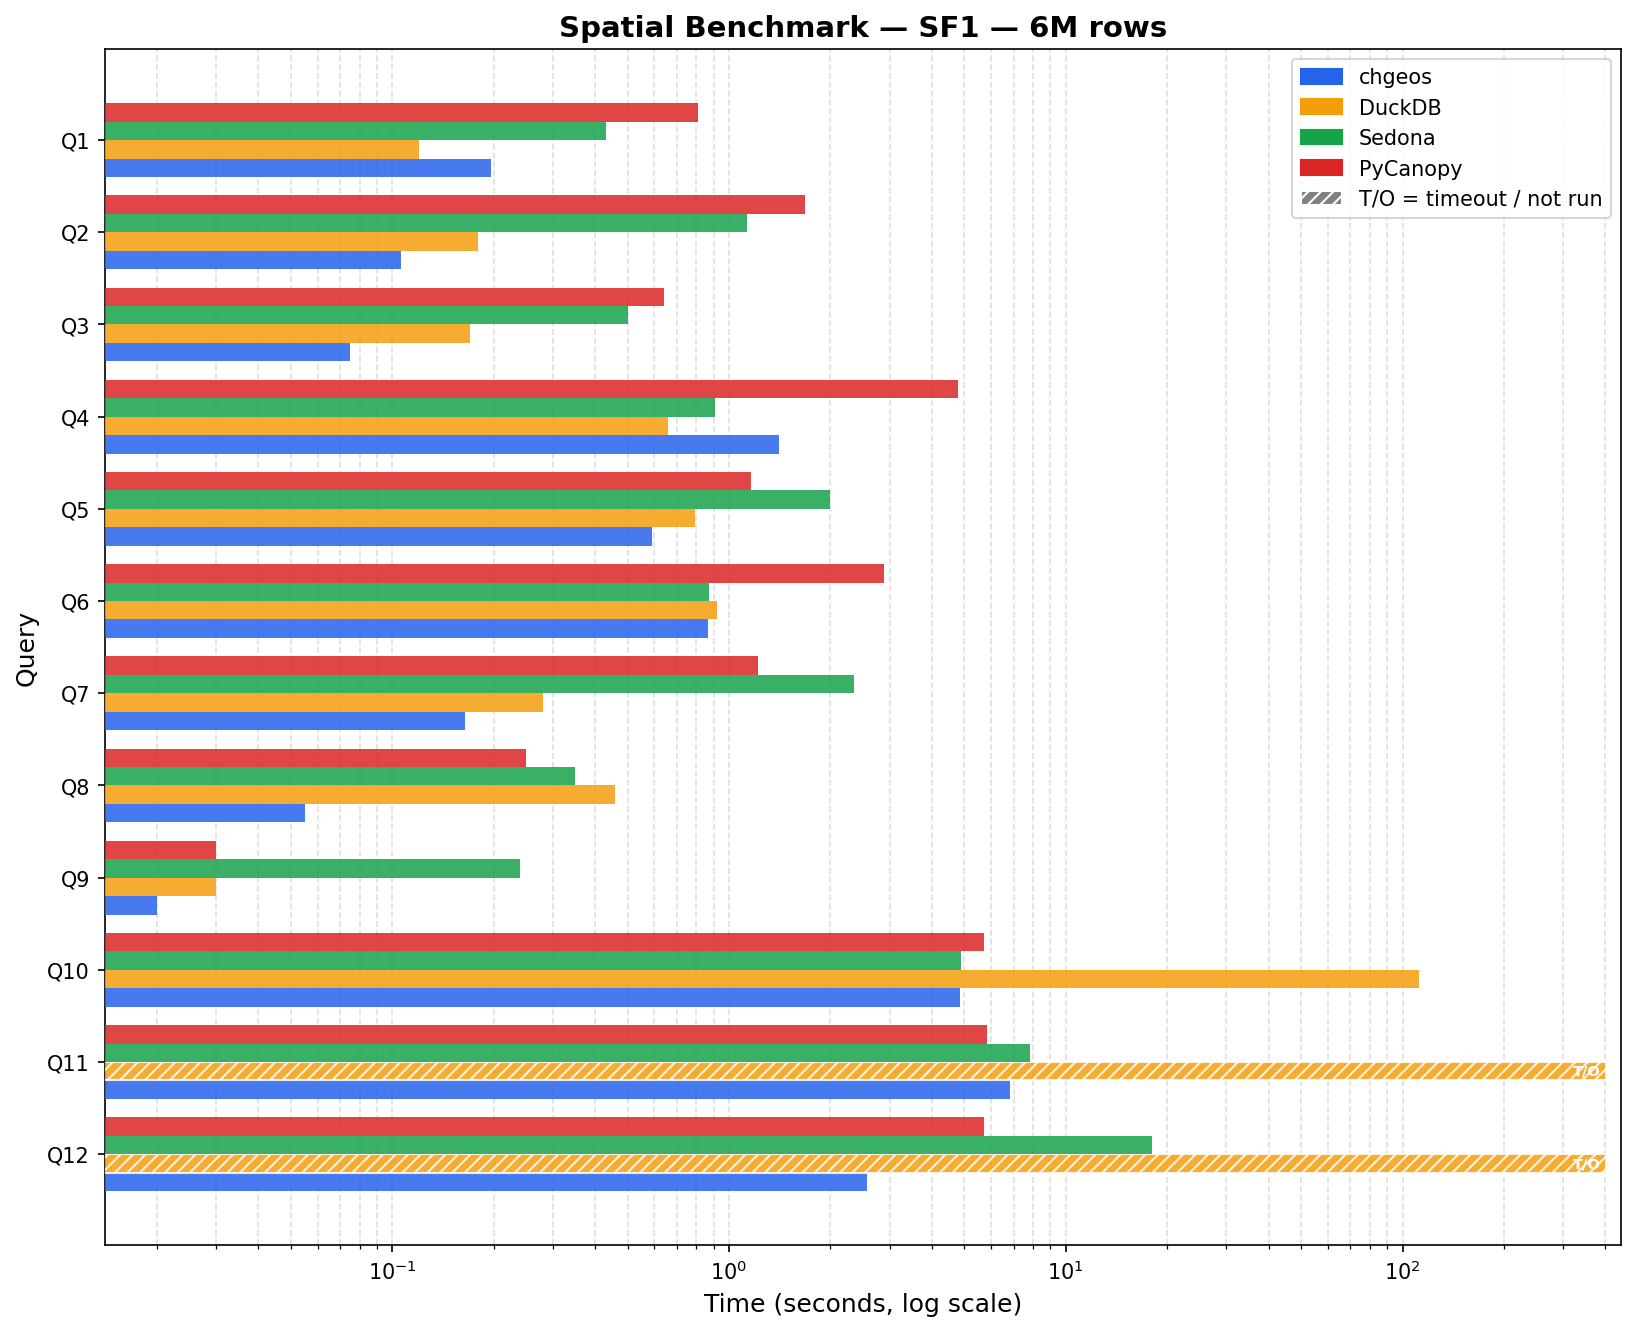
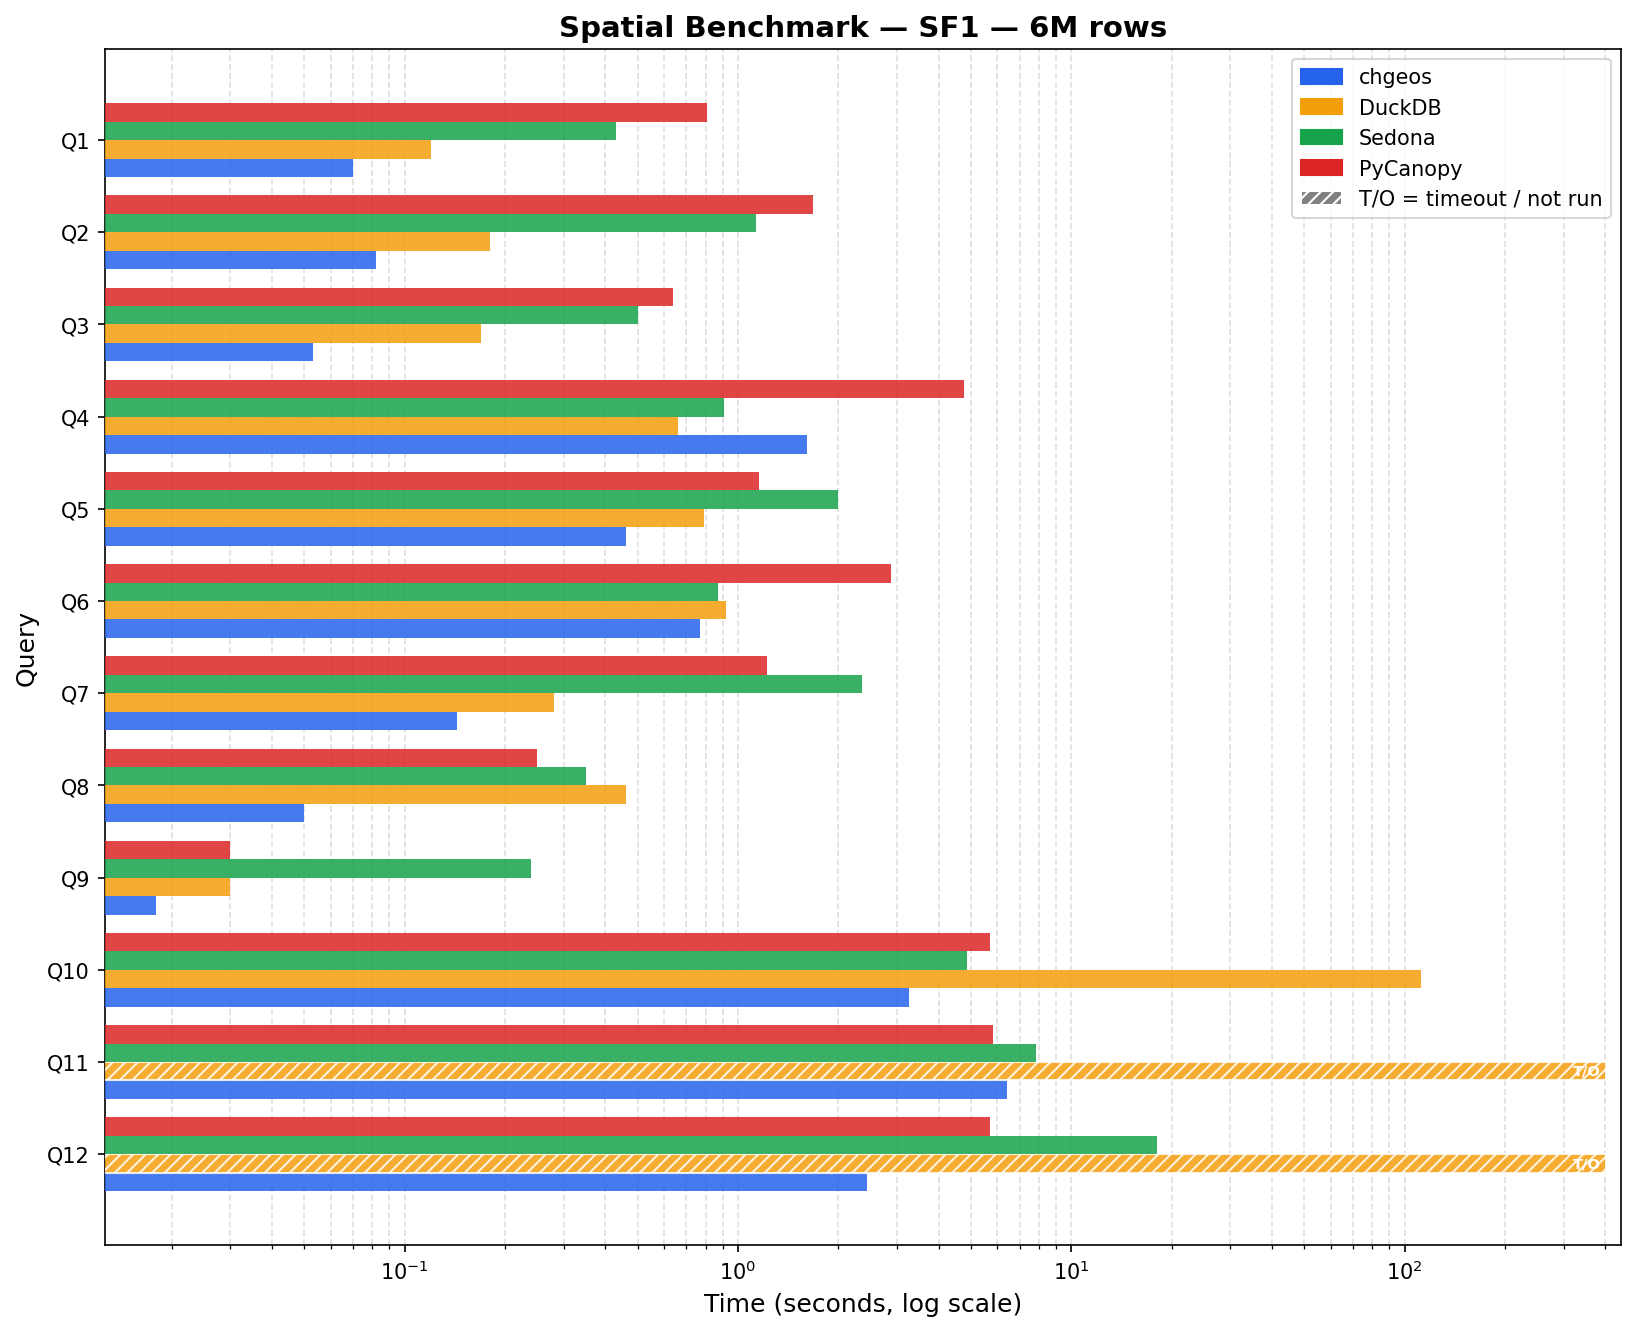
Refresh benchmarks: spatial join wins on Q10 and Q11

diff --git a/BENCHMARK.md b/BENCHMARK.md
@@ -6,7 +6,7 @@ Apache Sedona (SedonaDB) and PyCanopy on the spatial benchmark suite.
 **Hardware:** AMD Ryzen 9 5900X, 128 GB RAM  
 **Dataset:** synthetic taxi trip data from https://github.com/apache/sedona-spatialbench — SF1 = 6M trips, SF10 = 60M trips  
 **Timeout:** 120 s (all engines)  
-**chgeos version:** 2026-10-04 (chgeos `a81da88`, CH `33ced655096`)  
+**chgeos version:** 2026-10-04 (CH `95fbe4909e6`)  
 **DuckDB version:** 1.5.6 (re-measured 2026-10-04)  
 **Sedona version:** 0.3.0  
 **PyCanopy:** measured 2026-07-29  
@@ -19,25 +19,24 @@ Apache Sedona (SedonaDB) and PyCanopy on the spatial benchmark suite.
 
 | Query | Description                        | chgeos   | DuckDB   | Sedona  | PyCanopy | Winner   |
 |-------|------------------------------------|----------|----------|---------|----------|----------|
-| Q1    | Point-in-radius filter             | 0.20 s   | 0.12 s   | 0.43 s  | 0.81 s   | DuckDB   |
-| Q2    | Count trips in county polygon      | 0.11 s   | 0.18 s   | 1.13 s  | 1.68 s   | chgeos   |
-| Q3    | Monthly stats in bbox+buffer       | 0.08 s   | 0.17 s   | 0.50 s  | 0.64 s   | chgeos   |
-| Q4    | Zone distribution (top-1000 tips)  | 1.41 s   | 0.66 s   | 0.91 s  | 4.78 s   | DuckDB   |
-| Q5    | Convex hull area per customer/month| 0.59 s   | 0.79 s   | 2.00 s  | 1.16 s   | chgeos   |
-| Q6    | Zone stats for bbox-intersect zones| 0.87 s   | 0.92 s   | 0.87 s  | 2.88 s   | Tie      |
-| Q7    | Detour ratio (all trips)           | 0.17 s   | 0.28 s   | 2.35 s  | 1.22 s   | chgeos   |
-| Q8    | Nearby pickups per building        | 0.06 s   | 0.46 s   | 0.35 s  | 0.25 s   | chgeos   |
+| Q1    | Point-in-radius filter             | 0.07 s   | 0.12 s   | 0.43 s  | 0.81 s   | chgeos   |
+| Q2    | Count trips in county polygon      | 0.08 s   | 0.18 s   | 1.13 s  | 1.68 s   | chgeos   |
+| Q3    | Monthly stats in bbox+buffer       | 0.05 s   | 0.17 s   | 0.50 s  | 0.64 s   | chgeos   |
+| Q4    | Zone distribution (top-1000 tips)  | 1.61 s   | 0.66 s   | 0.91 s  | 4.78 s   | DuckDB   |
+| Q5    | Convex hull area per customer/month| 0.46 s   | 0.79 s   | 2.00 s  | 1.16 s   | chgeos   |
+| Q6    | Zone stats for bbox-intersect zones| 0.77 s   | 0.92 s   | 0.87 s  | 2.88 s   | chgeos   |
+| Q7    | Detour ratio (all trips)           | 0.14 s   | 0.28 s   | 2.35 s  | 1.22 s   | chgeos   |
+| Q8    | Nearby pickups per building        | 0.05 s   | 0.46 s   | 0.35 s  | 0.25 s   | chgeos   |
 | Q9    | Building conflation via IoU        | 0.02 s   | 0.03 s   | 0.24 s  | 0.03 s   | chgeos   |
-| Q10   | Zone avg duration/distance         | 4.86 s   | 111.59 s | 4.87 s  | 5.70 s   | Tie      |
-| Q11   | Cross-zone trip count              | 6.85 s   | TIMEOUT  | 7.82 s  | 5.84 s   | PyCanopy |
-| Q12   | 5 nearest buildings per trip (kNN) | 2.58 s   | TIMEOUT  | 18.07 s | 5.71 s   | chgeos   |
+| Q10   | Zone avg duration/distance         | 3.27 s   | 111.59 s | 4.87 s  | 5.70 s   | chgeos   |
+| Q11   | Cross-zone trip count              | 6.41 s   | TIMEOUT  | 7.82 s  | 5.84 s   | PyCanopy |
+| Q12   | 5 nearest buildings per trip (kNN) | 2.44 s   | TIMEOUT  | 18.07 s | 5.71 s   | chgeos   |
 
-**SF1 wins — chgeos: 7, DuckDB: 2, Sedona: 0, PyCanopy: 1, Ties: 2**
+**SF1 wins — chgeos: 10, DuckDB: 1, Sedona: 0, PyCanopy: 1, Ties: 0**
 
-The 2026-10-04 SF1 chgeos averages for Q1 and Q4 include a cold first run
-(Q1 min/avg/max 0.05/0.20/0.77 s, Q4 0.76/1.41/2.49 s): they were the first queries
-to touch `trip.parquet` and `zone.parquet` after the SF10 suite. Warm, chgeos takes
-Q1 (0.05 s) but still loses Q4 (0.76 s fastest run vs DuckDB's 0.66 s average).
+The SF1 chgeos Q4 average includes a cold first run (min/avg/max 0.71/1.61/2.24 s): it is the
+first query to read `zone.parquet` after the trip-only queries. Warm, chgeos is at ~0.7 s, close
+to DuckDB's 0.66 s, but still not ahead.
 
 **The SF1 tally understates DuckDB, and the cause is our Parquet files.** `sf1/trip.parquet`
 holds 6M rows in only 4 row groups. DuckDB caps a scan pipeline's thread count at the number
@@ -63,27 +62,37 @@ explained by this — see the Q7 note below.
 | Query | Description                        | chgeos    | DuckDB   | Sedona   | PyCanopy | Winner   |
 |-------|------------------------------------|-----------|----------|----------|----------|----------|
 | Q1    | Point-in-radius filter             | 0.31 s    | 0.33 s   | 0.94 s   | 18.93 s  | chgeos   |
-| Q2    | Count trips in county polygon      | 0.37 s    | 0.48 s   | 1.64 s   | 12.81 s  | chgeos   |
+| Q2    | Count trips in county polygon      | 0.38 s    | 0.48 s   | 1.64 s   | 12.81 s  | chgeos   |
 | Q3    | Monthly stats in bbox+buffer       | 0.33 s    | 0.45 s   | 1.43 s   | 14.59 s  | chgeos   |
-| Q4    | Zone distribution (top-1000 tips)  | 1.17 s    | 1.08 s   | 1.86 s   | 19.80 s  | DuckDB   |
-| Q5    | Convex hull area per customer/month| 5.50 s    | 7.36 s   | 42.43 s  | 21.93 s  | chgeos   |
-| Q6    | Zone stats for bbox-intersect zones| 1.57 s    | 1.59 s   | 2.86 s   | 7.74 s   | Tie      |
+| Q4    | Zone distribution (top-1000 tips)  | 1.14 s    | 1.08 s   | 1.86 s   | 19.80 s  | DuckDB   |
+| Q5    | Convex hull area per customer/month| 5.24 s    | 7.36 s   | 42.43 s  | 21.93 s  | chgeos   |
+| Q6    | Zone stats for bbox-intersect zones| 1.59 s    | 1.59 s   | 2.86 s   | 7.74 s   | Tie      |
 | Q7    | Detour ratio (all trips)           | 0.96 s    | 0.84 s   | 42.28 s  | 14.39 s  | DuckDB   |
-| Q8    | Nearby pickups per building        | 0.51 s    | 1.53 s   | 2.02 s   | 2.69 s   | chgeos   |
+| Q8    | Nearby pickups per building        | 0.50 s    | 1.53 s   | 2.02 s   | 2.69 s   | chgeos   |
 | Q9    | Building conflation via IoU        | 0.04 s    | 0.13 s   | 0.37 s   | 0.06 s   | chgeos   |
-| Q10   | Zone avg duration/distance         | 30.00 s   | TIMEOUT  | 17.02 s  | 27.05 s  | Sedona   |
-| Q11   | Cross-zone trip count              | 45.59 s   | TIMEOUT  | TIMEOUT  | 42.97 s  | PyCanopy |
-| Q12   | 5 nearest buildings per trip (kNN) | 33.28 s   | TIMEOUT  | TIMEOUT  | 98.60 s  | chgeos   |
+| Q10   | Zone avg duration/distance         | 14.05 s   | TIMEOUT  | 17.02 s  | 27.05 s  | chgeos   |
+| Q11   | Cross-zone trip count              | 26.87 s   | TIMEOUT  | TIMEOUT  | 42.97 s  | chgeos   |
+| Q12   | 5 nearest buildings per trip (kNN) | 31.67 s   | TIMEOUT  | TIMEOUT  | 98.60 s  | chgeos   |
 
-**SF10 wins — chgeos: 7, DuckDB: 2, Sedona: 1, PyCanopy: 1, Ties: 1**
+**SF10 wins — chgeos: 9, DuckDB: 2, Sedona: 0, PyCanopy: 0, Ties: 1**
 
-chgeos and DuckDB SF10 were re-measured back to back on 2026-10-04 on the upstream
-split files (chgeos COLUMNAR_V1 wire, 5 runs, averages). The machine was not idle:
-an unrelated process held one core and 23 GB throughout, and load average was
-20–35 during the DuckDB runs, so treat sub-2-second rows as ±10%. DuckDB Q11/Q12 were
-not re-run (the run was stopped after Q10 timed out; both timed out in every earlier
-measurement). Sedona (2026-05-06) and PyCanopy (2026-07-29) were measured on the older
-single-file layout and have not been re-run.
+chgeos SF10 was re-measured on 2026-10-04 at CH `95fbe4909e6` (COLUMNAR_V1 wire,
+5 runs, averages, load average ~19 from unrelated processes, so treat sub-2-second rows as
+±10%). DuckDB SF10 is from earlier the same day on the same split files; DuckDB Q11/Q12 were
+not re-run (both timed out in every earlier measurement). Sedona (2026-05-06) and PyCanopy
+(2026-07-29) were measured on the older single-file layout and have not been re-run.
+
+Q10 and Q11 moved from losses to wins (Q10 30.0 → 14.0 s, Q11 45.6 → 26.9 s), all from
+host-side work in `SpatialRTreeJoin`, not WASM:
+- predicate evaluation groups candidates by left-row runs, resolves column pointers once per
+  probe block and copies only the columns the predicate reads (`77700fc9f0a`, `95fbe4909e6`);
+  the large-row path for zones with millions of candidate trips was still looking every column
+  up by name per candidate, which was ~31% of Q10's straggler tail;
+- the per-core R-tree sub-trees are now spatially disjoint (kd bisection on box centres) for
+  build sides up to 10M rows (`08e9f5beba7`), so a probe only descends the trees it can touch.
+  Q11's second join (31M rows probing the zone tree) is where this pays: CPU −24%. Above 10M
+  rows (the 60M-trip build of Q10/Q11's first join) the same partitioning lost parallelism and
+  is not used.
 
 What moved since 2026-10-03: a host-side bounding-box prefilter answers bbox-disjoint
 rows of constant-argument spatial predicates without entering WASM (Q1 −29%, Q3 −30%,
@@ -174,15 +183,14 @@ predicate, cutting candidate pairs dramatically. At SF1 chgeos, DuckDB and PyCan
 land at 0.03 s, which is below the resolution of these measurements — scored as a tie.
 At SF10 chgeos beats DuckDB and Sedona but PyCanopy is faster (0.06 s vs 0.10 s).
 
-**Q10 at SF10:** Sedona wins (17 s vs chgeos 28 s and PyCanopy 27 s, DuckDB TIMEOUT).
-Sedona's DataFusion task-parallel build/probe model handles the large trip build side
-more efficiently. DuckDB cannot complete within 120 s.
+**Q10 at SF10:** chgeos 14.0 s, Sedona 17.0 s, PyCanopy 27.1 s, DuckDB TIMEOUT. The remaining
+cost is the 60M-trip R-tree build (~5 s) plus a probe tail: a few zone blocks with millions of
+candidate trips each run longer than the rest on one thread.
 
-**Q11 at SF10:** Sedona times out because it materializes the intermediate
-trip×pickup_zone result before applying the second zone join, causing memory explosion
-at SF10. chgeos handles both zone joins in a single `SpatialRTreeDoubleJoin` pass
-(41.0 s vs TIMEOUT for both DuckDB and Sedona). PyCanopy also completes at 43.0 s, but
-that figure is from 2026-07-29 and the 5% margin is inside the noise — scored a tie.
+**Q11 at SF10:** chgeos 26.9 s, PyCanopy 43.0 s; DuckDB and Sedona time out (Sedona
+materializes the trip×pickup_zone intermediate before the second zone join). chgeos runs it as
+two chained `SpatialRTreeJoin`s: zones probe the trip tree, then the 31M-row result probes the
+zone tree.
 
 **Q12 (kNN):** WASM `st_knn` uses a static 2-D centroid k-d tree for candidate selection,
 then refines the surviving candidates to an exact point-to-geometry distance. The tree
